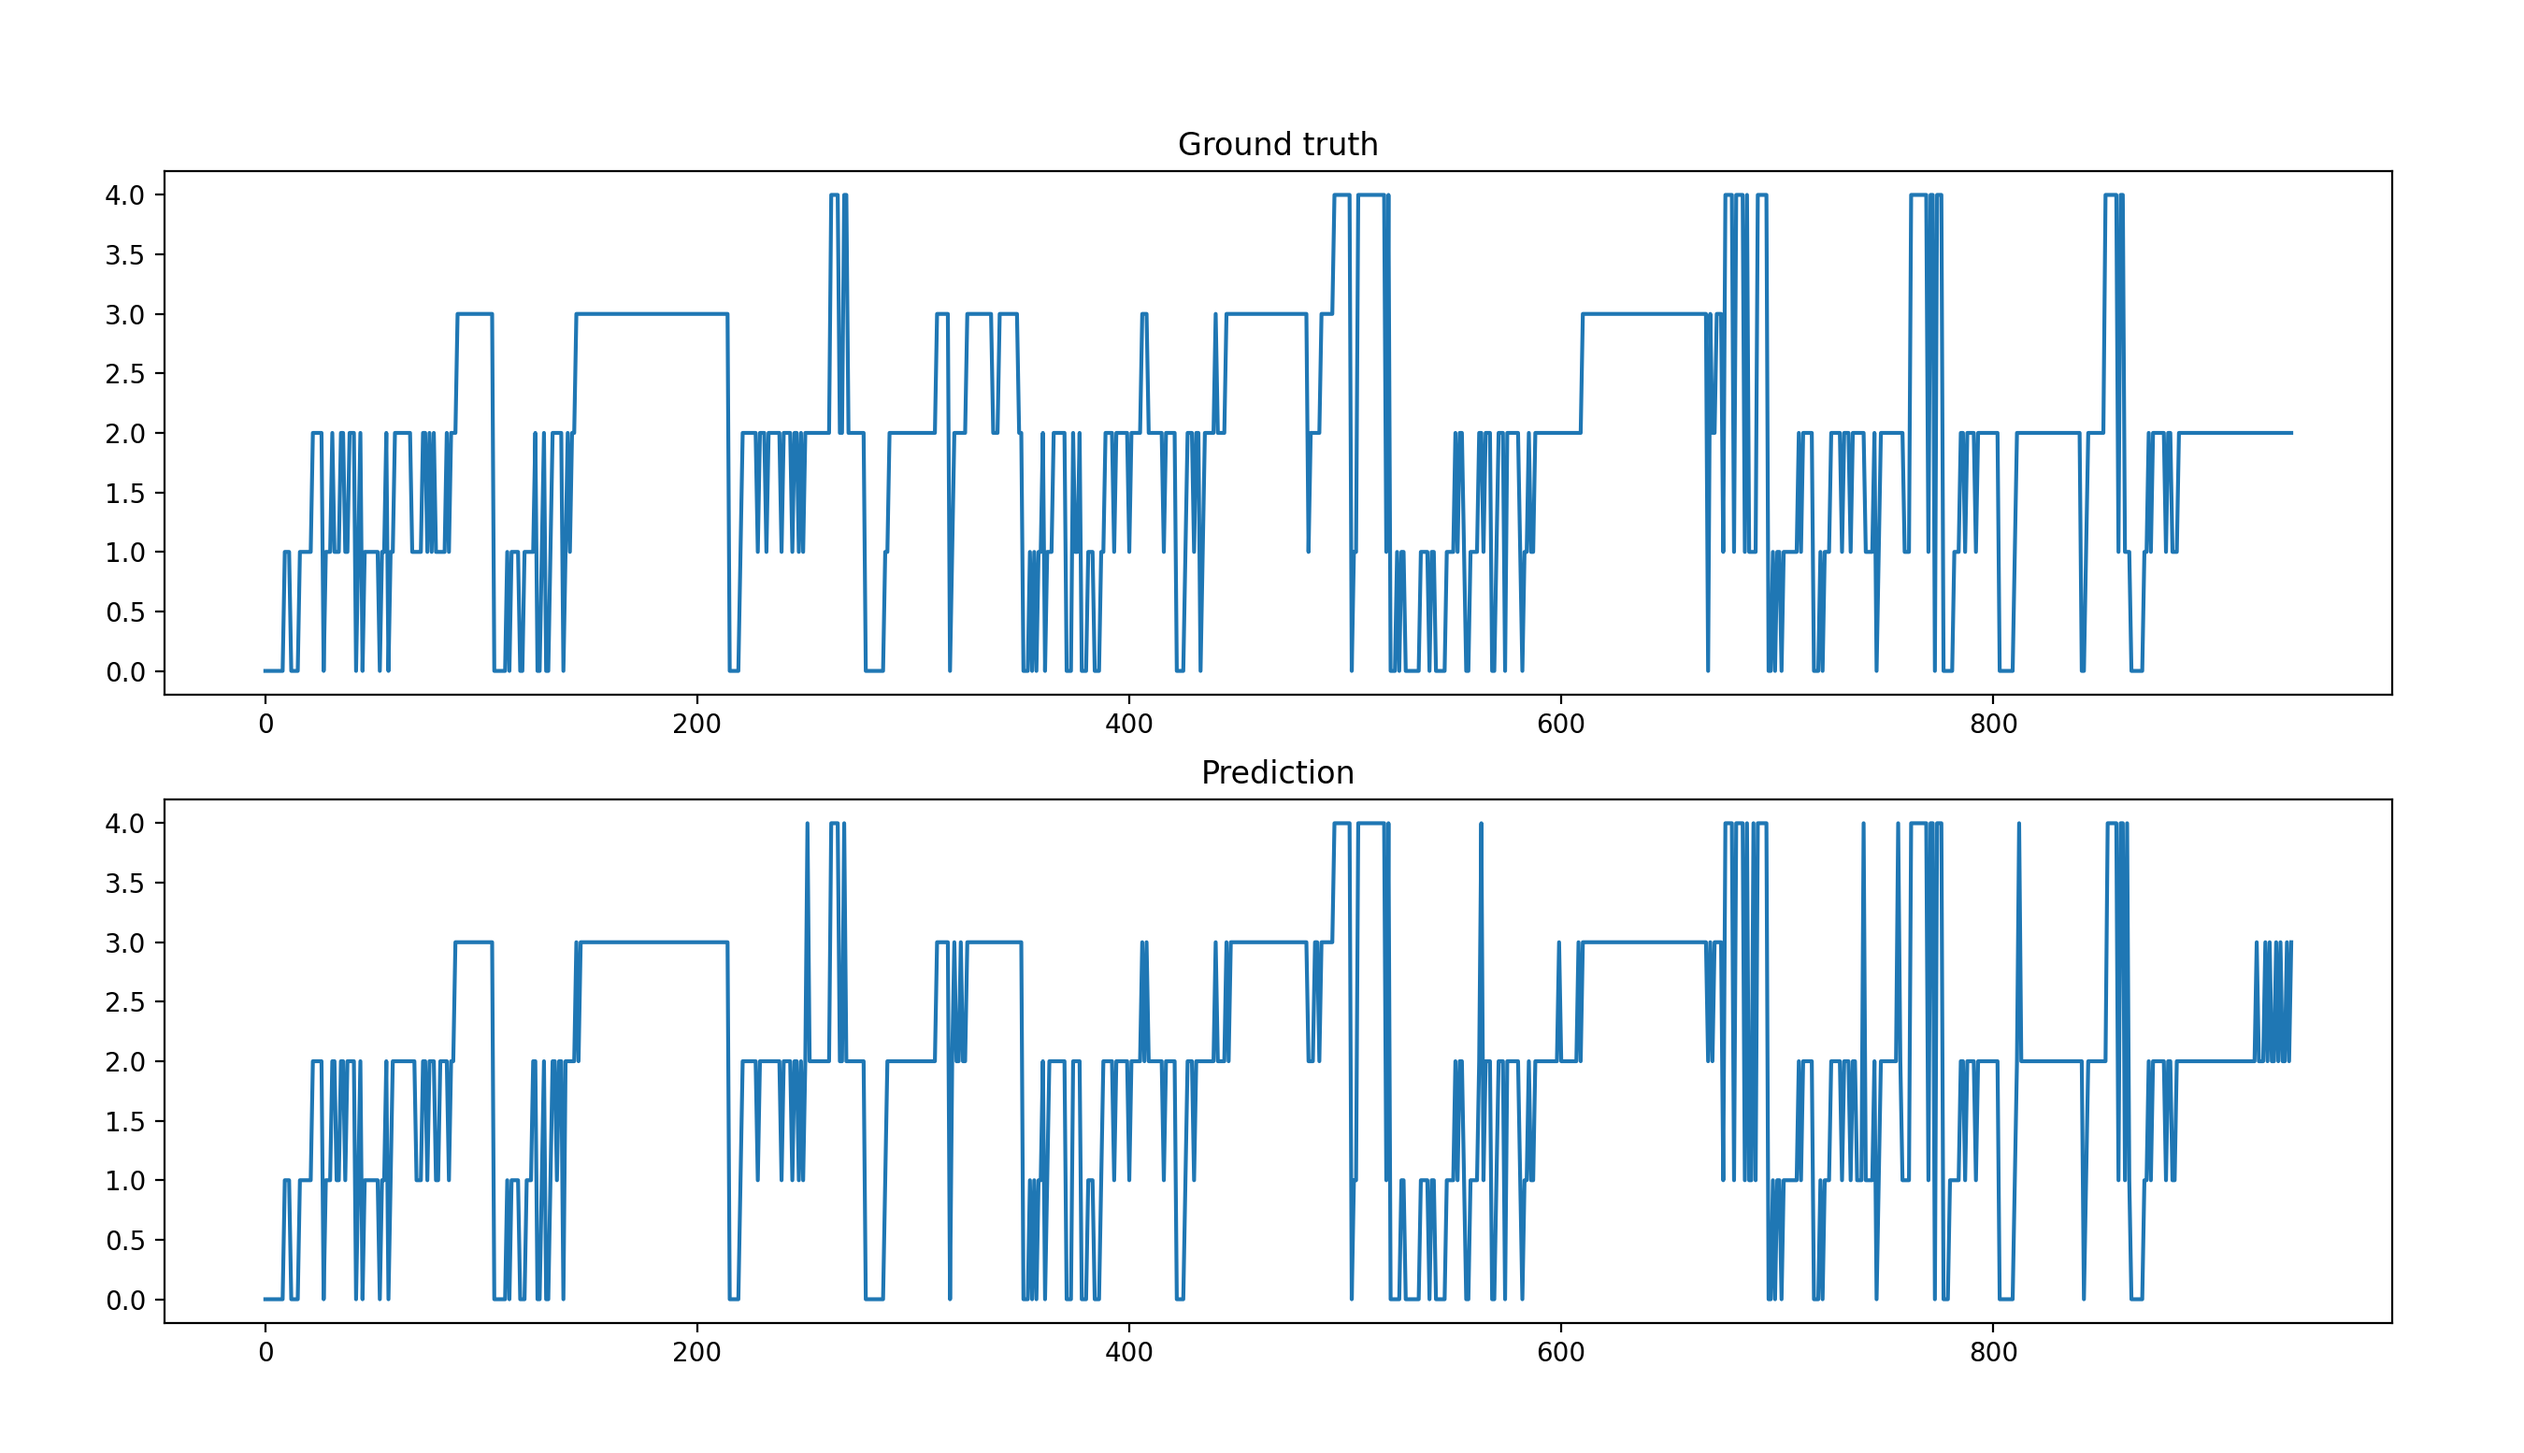
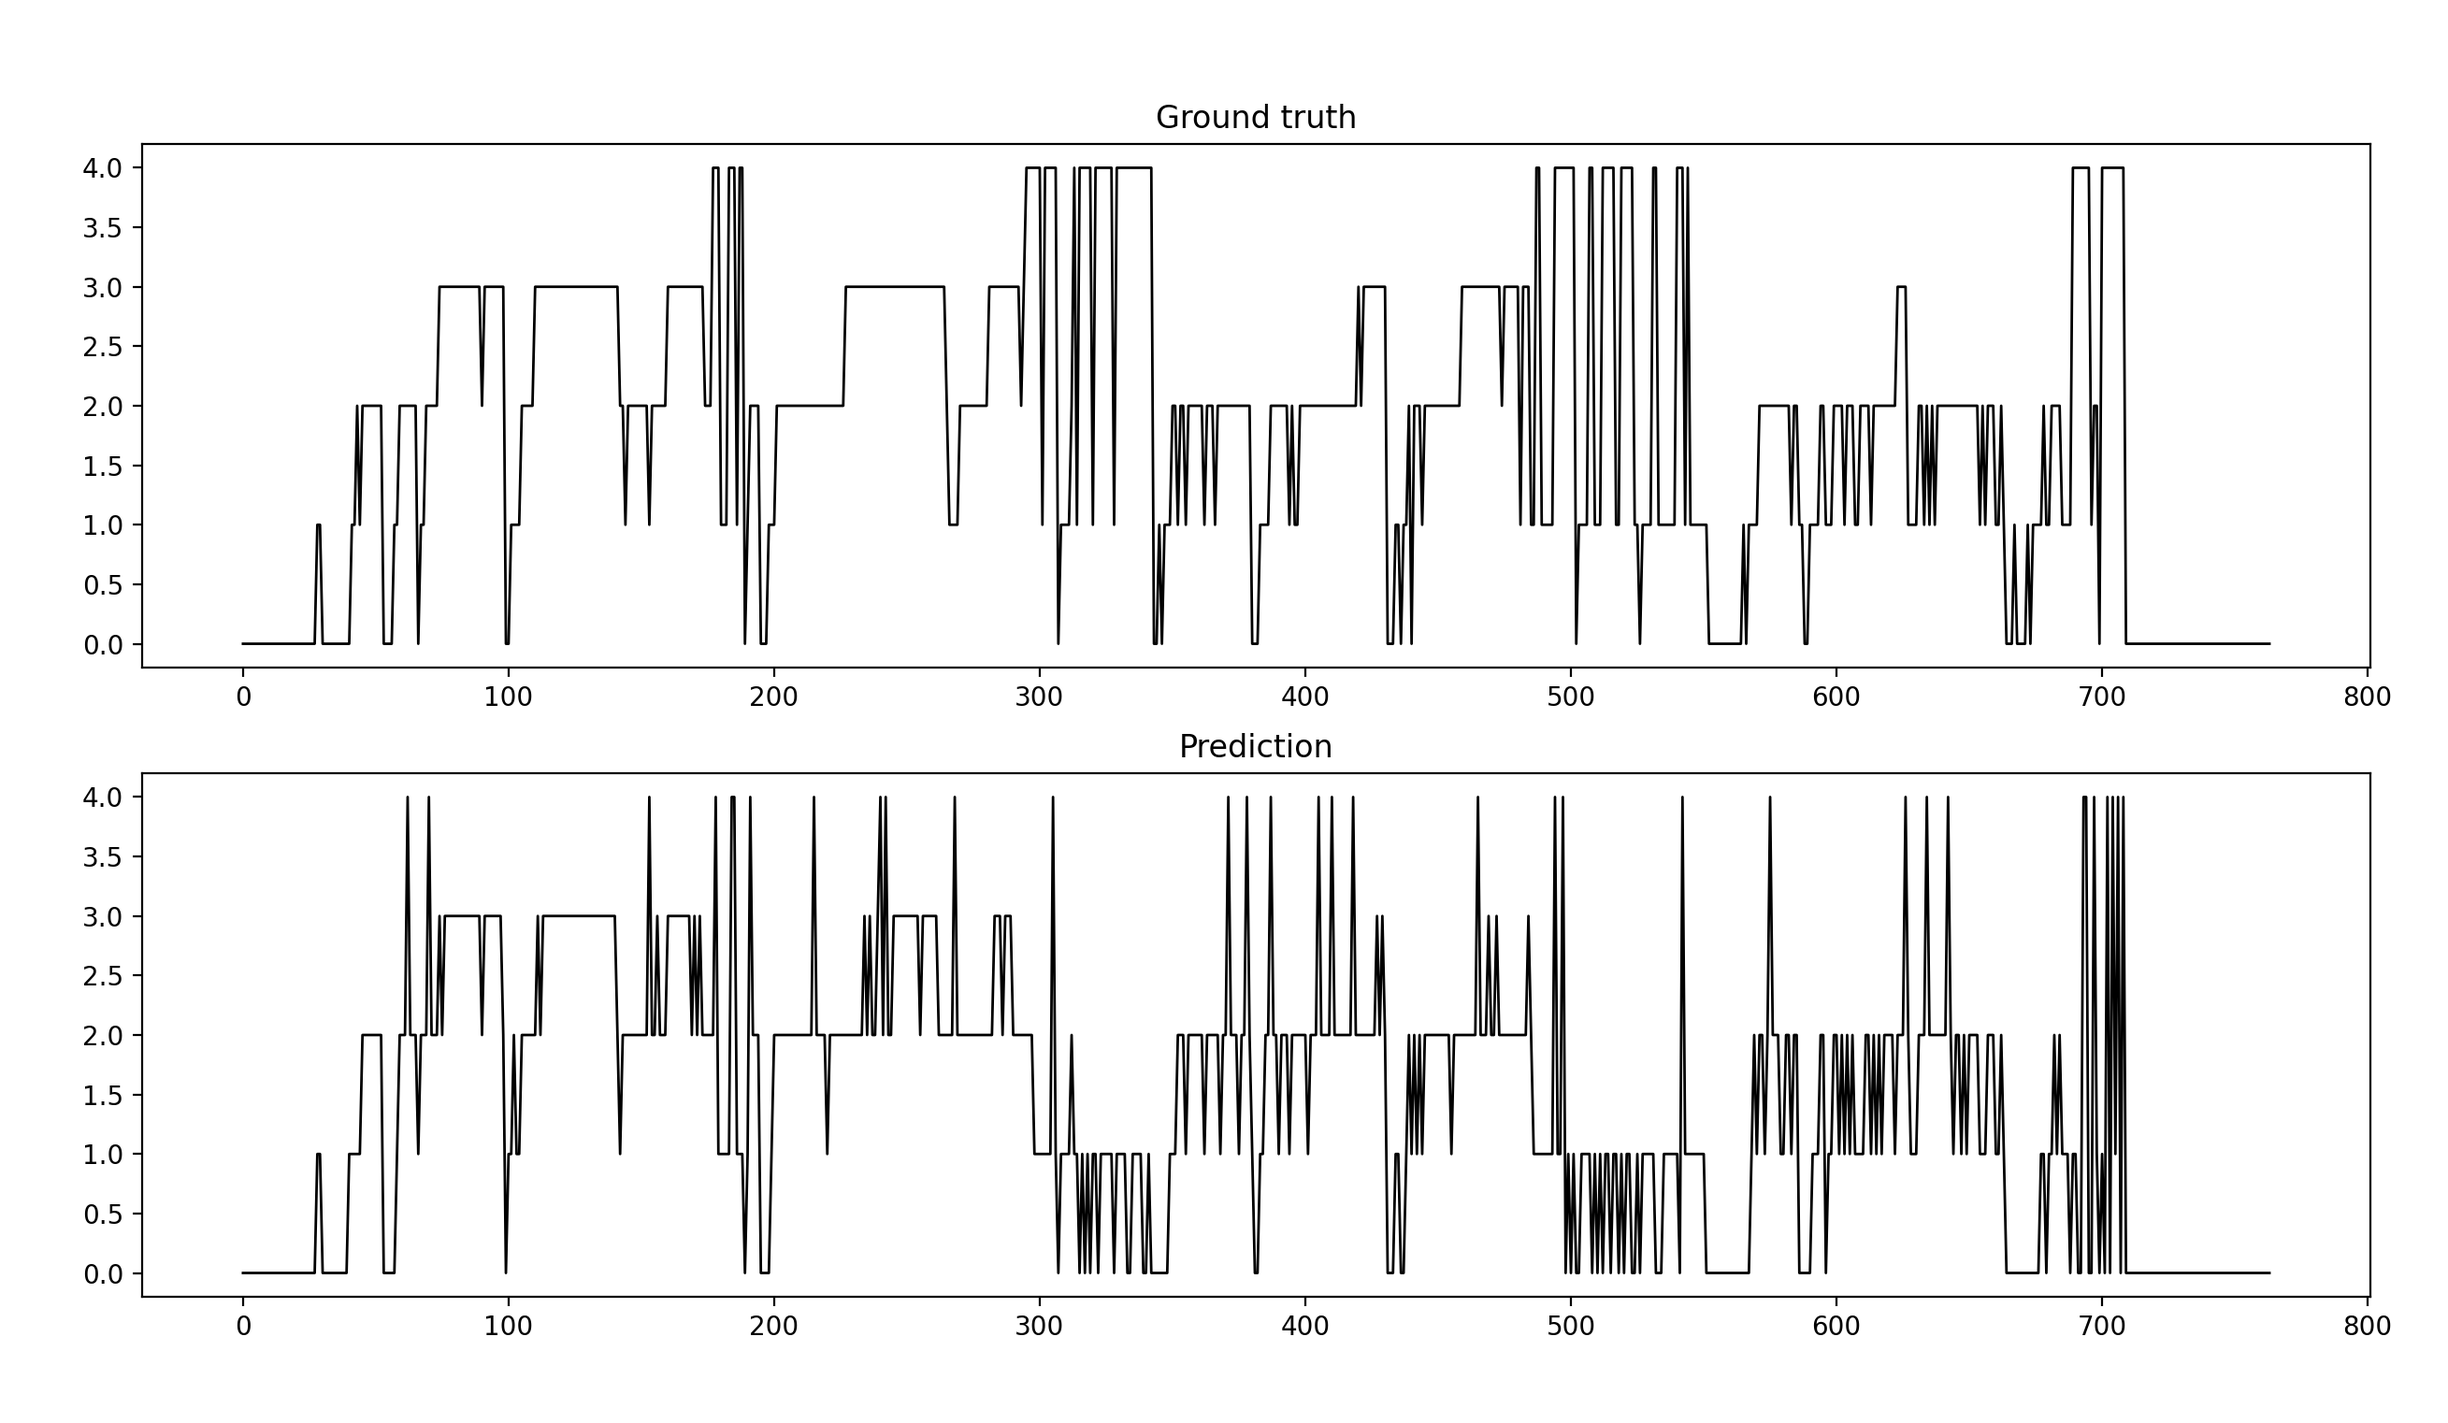
2024/7/9-lcz

Changed region(s): [[0.0309, 0.0618, 0.9901, 0.9573], [0.9591, 0.9264, 0.9901, 0.9573]]

diff --git a/demo.py b/demo.py
@@ -34,8 +34,8 @@ def depict(predict_list, ground_truth):
     predict_fig = figure.add_subplot(2, 1, 2)
     predict_fig.set_title('Prediction')
     X = list(range(len(predict_list)))
-    expert_fig.plot(X, ground_truth)
-    predict_fig.plot(X, predict_list)
+    expert_fig.plot(X, ground_truth, linewidth=1.0, color='k')
+    predict_fig.plot(X, predict_list, linewidth=1.0, color='k')
 
 
 if __name__ == '__main__':
